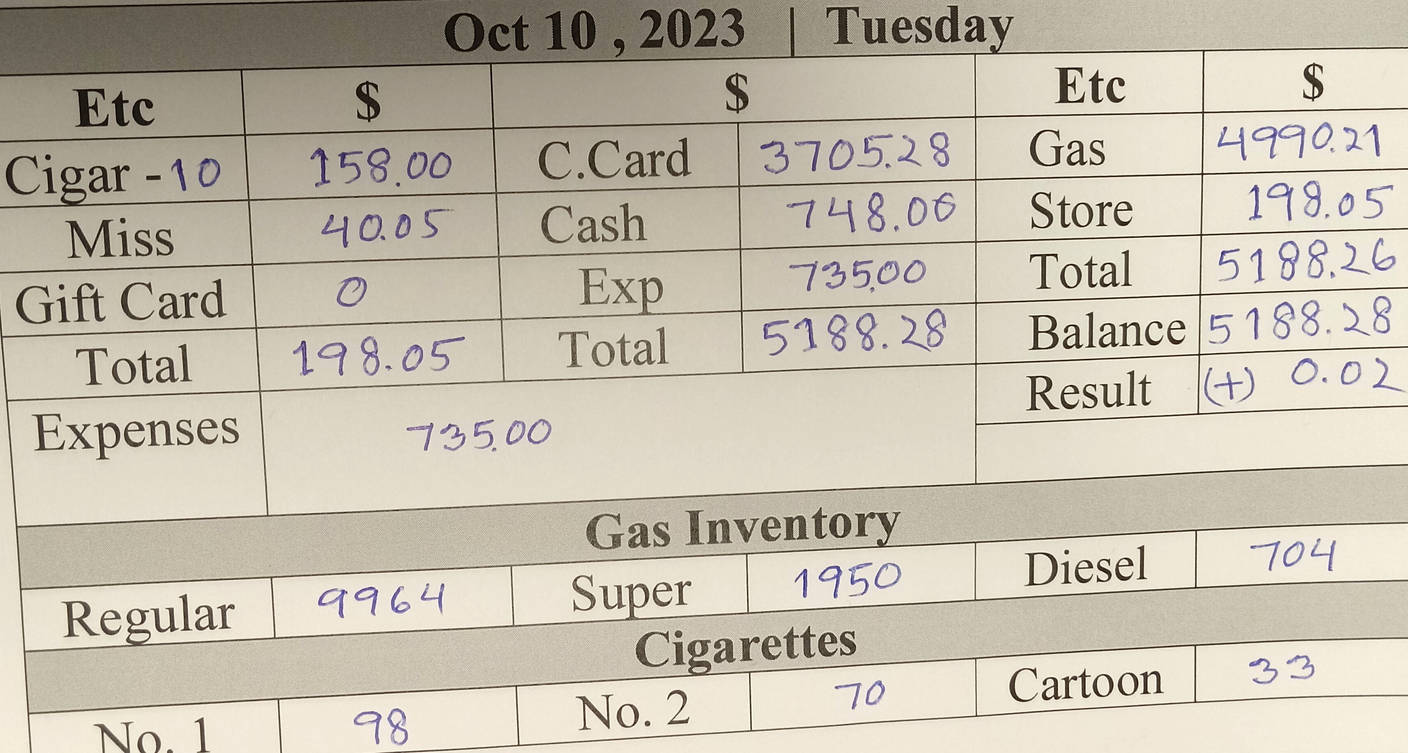
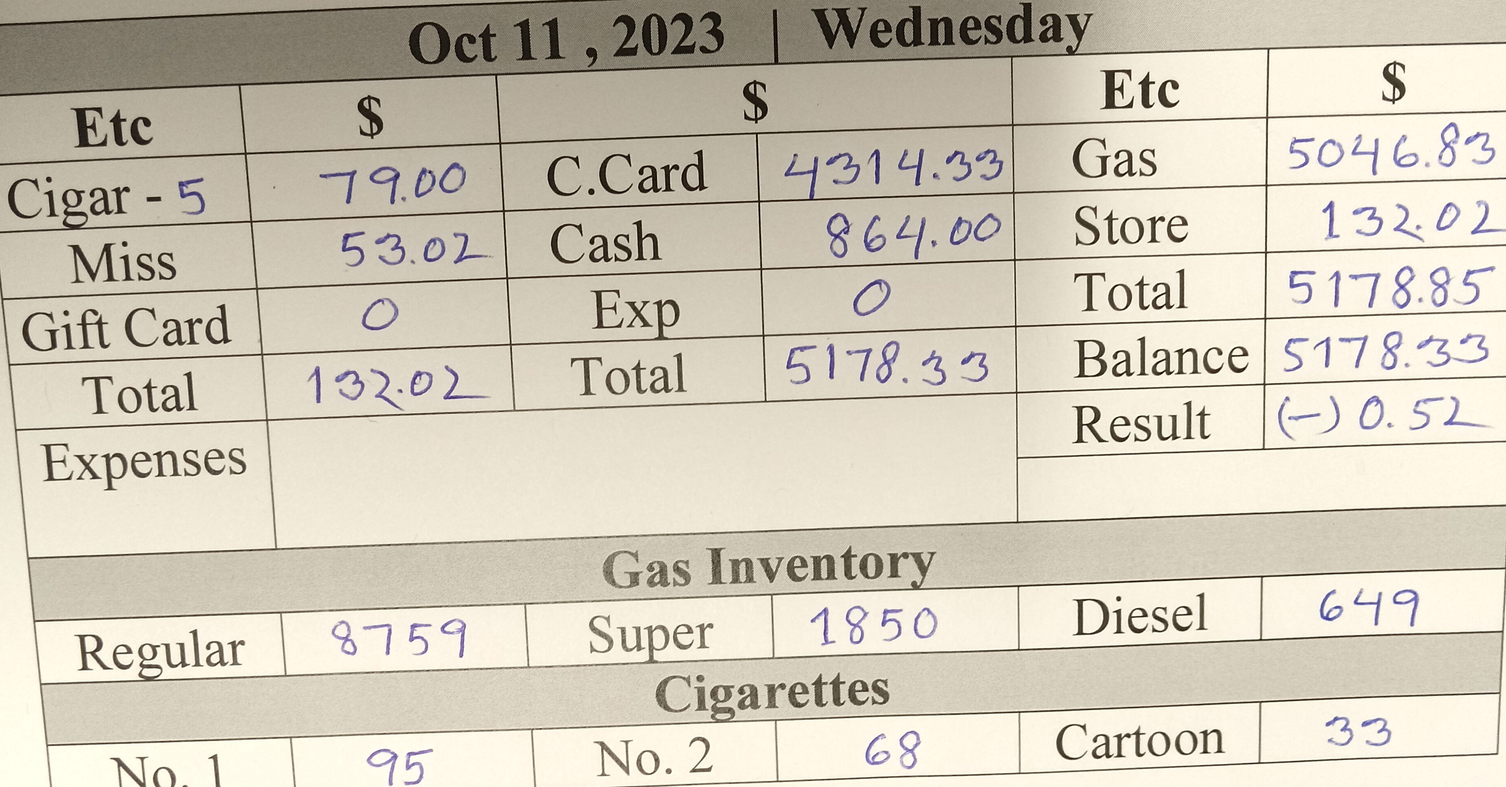
d 11

Changed region(s): [[0.0, 0.0, 1.0, 1.0], [0.2799, 0.5576, 0.4044, 0.5886]]

diff --git a/card.html b/card.html
@@ -67,7 +67,7 @@
         </h5>
           <p class="card-text"></p>
           <p class="card-text"><small class="text-muted"></small></p>
-        <img src="10.jpg" class="card-img-top text-danger text-center fw-bolder fs-3" 
+        <img src="11.jpg" class="card-img-top text-danger text-center fw-bolder fs-3" 
           alt="Call Rashid ">
         <div class="card-body">
           <h5 class="card-title"></h5>
@@ -79,13 +79,13 @@
         <h5 class="card-title text-center pt-4 m-0">
           <button class="p-1 rounded-3" type="button"><a title="Click Me"
              class="text-primary fw-bolder text-decoration-none " href="index.html">
-             Oct 9,2023
+             Oct 10,2023
           </a>
           </button>
         </h5>
           <p class="card-text"></p>
           <p class="card-text"><small class="text-muted"></small></p>
-        <img src="9.jpg" class="card-img-top text-center text-bg-danger" 
+        <img src="10.jpg" class="card-img-top text-center text-bg-danger" 
         alt="Not Done">
         <div class="card-body">
           <h5 class="card-title"></h5>
@@ -97,13 +97,13 @@
         <h5 class="card-title text-center pt-4 m-0 ">
           <button class="p-1 rounded-3" type="button"><a title="Click Me" 
             class="text-primary fw-bolder text-decoration-none " href="index.html">
-            Oct 8,2023          
+            Oct 9,2023          
           </a>
           </button>
           </h5>
           <p class="card-text"></p>
           <p class="card-text"><small class="text-muted"></small></p>
-        <img src="8.jpg" class="card-img-top text-center text-bg-danger" 
+        <img src="9.jpg" class="card-img-top text-center text-bg-danger" 
         alt="Not Done">
         <div class="card-body">
           <h5 class="card-title"></h5>
@@ -116,13 +116,13 @@
         <h5 class="card-title text-center pt-4 m-0 ">
           <button class="p-1 rounded-3" type="button"><a title="Click Me" 
             class="text-primary fw-bolder text-decoration-none " href="index.html">
-             Oct 7,2023
+             Oct 8,2023
             </a>
           </button>
           </h5>
           <p class="card-text"></p>
           <p class="card-text"><small class="text-muted"></small></p>
-        <img title="Pic" src="7.jpg" class="card-img-top  text-bg-danger fw-bolder text-center"
+        <img title="Pic" src="8.jpg" class="card-img-top  text-bg-danger fw-bolder text-center"
          alt="Already Done">
         <div class="card-body">
           <h5 class="card-title"></h5>

diff --git a/index.html b/index.html
@@ -86,7 +86,7 @@
           class="btn btn-secondary fs fw-bold text-uppercase"
         >
          <!-- Exp  :  <span class="text-warning ms-3">rashid : 663 </span> -->
-         Exp  :  <span class="text-warning ms-3">ali : 735.00</span>
+         Exp  :  <span class="text-warning ms-3">0</span>
          
         </button>
          
